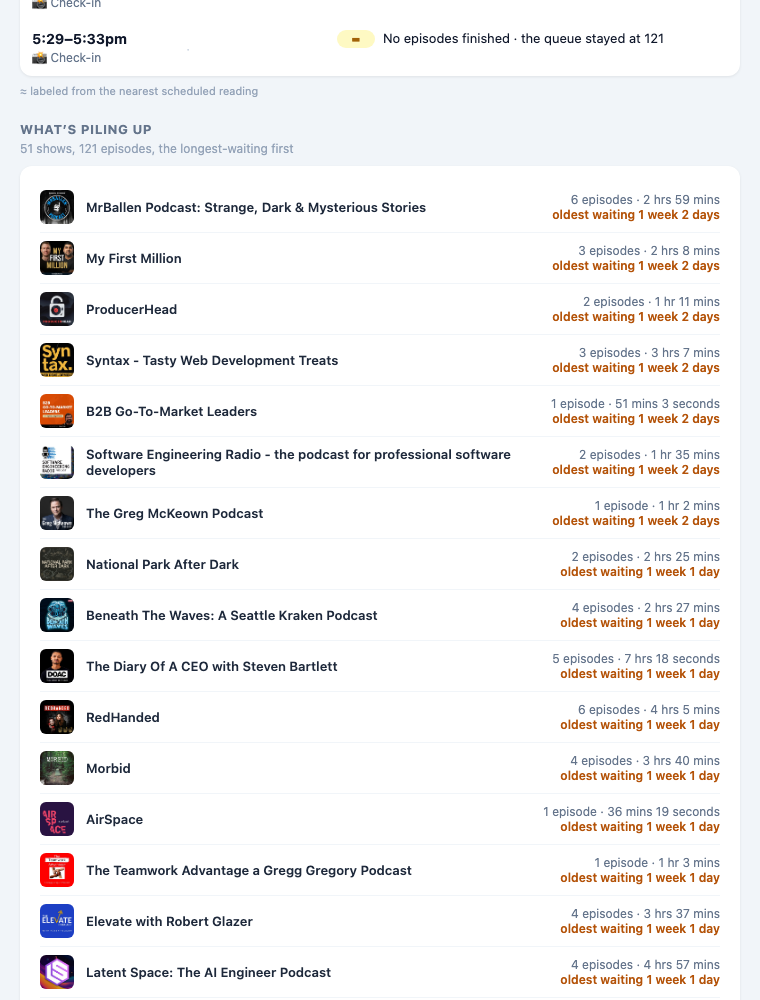
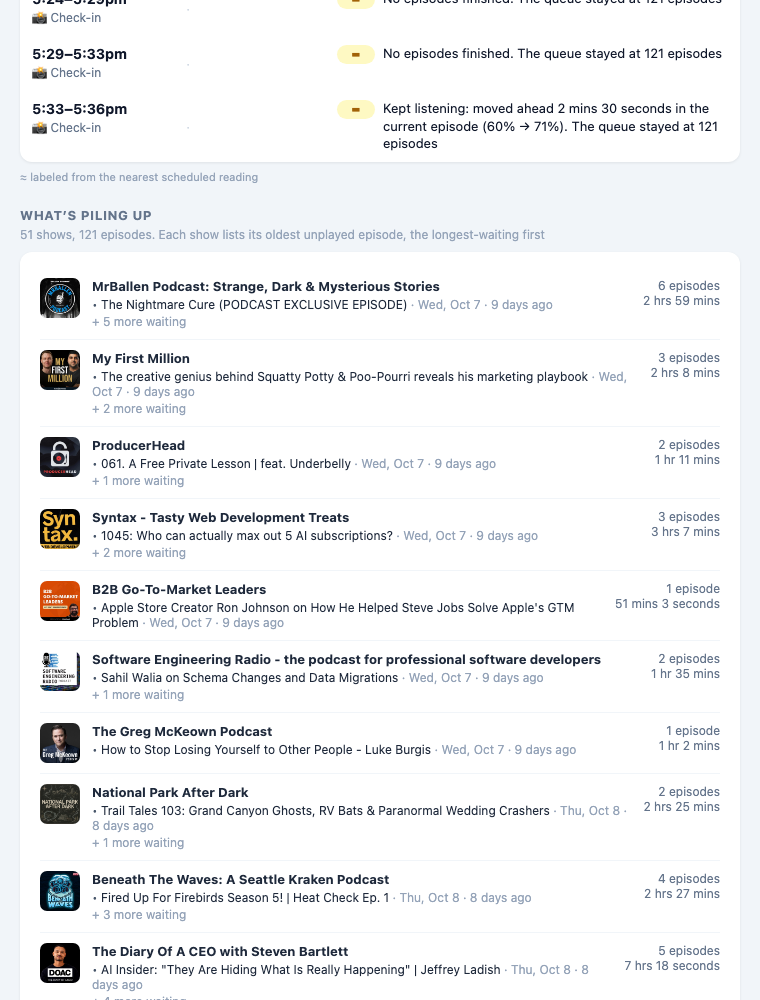
Flow web report: each show in What's piling up names its oldest episode
Under each show, a bullet with the oldest unplayed episode as a link, its
published date, and how many days ago that was, plus how many more are waiting.

diff --git a/flow.py b/flow.py
@@ -91,12 +91,16 @@ def queue_by_show(d, top=None):
     for e in d["queue"].get("episodes", []):
         name = e.get("podcast") or "Unknown"
         row = shows.setdefault(name, {"podcast": name, "count": 0, "seconds": 0, "oldest": None,
+                                      "oldest_title": None, "oldest_url": None, "oldest_duration": None,
                                       "artwork_url": None, "podcast_url": None})
         row["count"] += 1
         row["seconds"] += parse_fmt_seconds(e.get("duration_fmt"))
         pub = e.get("pubdate")
         if pub and (row["oldest"] is None or pub < row["oldest"]):
             row["oldest"] = pub
+            row["oldest_title"] = e.get("title")
+            row["oldest_url"] = e.get("episode_url")
+            row["oldest_duration"] = e.get("duration_fmt")
         row["artwork_url"] = row["artwork_url"] or e.get("artwork_url")
         row["podcast_url"] = row["podcast_url"] or e.get("podcast_url")
     ranked = sort_oldest_first(list(shows.values()))
@@ -693,10 +697,34 @@ def pile_rows(s, d=None, now=None):
     return [dict(r, age=waiting_age(r.get("oldest"), now)) for r in rows]
 
 
-def pile_line(row):
+def ago_phrase(seconds):
+    if seconds is None:
+        return ""
+    if seconds < 3600:
+        return "just now"
+    if seconds < 86400:
+        n = int(seconds // 3600)
+        return f"{n} hr{'' if n == 1 else 's'} ago"
+    n = int(seconds // 86400)
+    return f"{n} day{'' if n == 1 else 's'} ago"
+
+
+def published_label(oldest_iso, tz=None):
+    """"Tue, Oct 6" in local time."""
+    if not oldest_iso:
+        return ""
+    d = parse_utc(oldest_iso).astimezone(tz or ps.LOCAL_TZ)
+    return f"{d.strftime('%a, %b')} {d.day}"
+
+
+def pile_line(row, tz=None):
+    """One line for chat and Discord: the count, the listening time, and the
+    oldest episode with its date."""
     bits = [episodes_phrase(row["count"]), dur_n(row["seconds"])]
-    if row.get("age") is not None:
-        bits.append(f"oldest waiting {dur_n(row['age'])}")
+    if row.get("oldest_title"):
+        bits.append(f"oldest: {row['oldest_title']} ({published_label(row.get('oldest'), tz)})")
+    elif row.get("oldest"):
+        bits.append(f"oldest published {published_label(row['oldest'], tz)}")
     return " · ".join(bits)
 
 
@@ -1049,7 +1077,7 @@ def timeline_html(s, tz=None):
     )
 
 
-def piling_up_html(s, d=None):
+def piling_up_html(s, d=None, tz=None):
     rows = pile_rows(s, d)
     if not rows:
         return ""
@@ -1057,26 +1085,37 @@ def piling_up_html(s, d=None):
     for row in rows:
         art = ""
         if row.get("artwork_url"):
-            img = (f'<img src="{html.escape(row["artwork_url"])}" width="34" height="34" '
-                   'style="border-radius:6px;display:block;" alt="">')
+            img = (f'<img src="{html.escape(row["artwork_url"])}" width="40" height="40" '
+                   'style="border-radius:7px;display:block;" alt="">')
             art = (f'<a href="{html.escape(row["podcast_url"])}" target="_blank">{img}</a>'
                    if row.get("podcast_url") else img)
-        age = (f'<div style="font-size:12px;color:#b45309;font-weight:600;">oldest waiting {html.escape(dur_n(row["age"]))}</div>'
-               if row.get("age") is not None else "")
+        bullet = ""
+        when = ""
+        if row.get("oldest"):
+            when = f'{published_label(row["oldest"], tz)} · {ago_phrase(row.get("age"))}'
+        if row.get("oldest_title"):
+            bullet = (f'<div style="font-size:12px;margin-top:3px;color:#475569;">'
+                      f'• {_link(row["oldest_title"], row.get("oldest_url"), "#1e293b")}'
+                      f'<span style="color:#94a3b8;"> · {html.escape(when)}</span></div>')
+        elif when:
+            bullet = f'<div style="font-size:12px;margin-top:3px;color:#475569;">• oldest published {html.escape(when)}</div>'
+        more = (f'<div style="font-size:12px;color:#94a3b8;margin-top:2px;">+ {row["count"] - 1} more waiting</div>'
+                if row["count"] > 1 else "")
         items += (
-            '<div style="display:flex;gap:12px;align-items:center;padding:8px 0;border-bottom:1px solid #f1f5f9;">'
-            f'<div style="flex:0 0 34px;">{art}</div>'
-            f'<div style="flex:1;min-width:0;font-size:13px;font-weight:600;">'
-            f'{_link(row["podcast"], row.get("podcast_url"), "#1e293b")}</div>'
+            '<div style="display:flex;gap:12px;align-items:flex-start;padding:10px 0;border-bottom:1px solid #f1f5f9;">'
+            f'<div style="flex:0 0 40px;">{art}</div>'
+            '<div style="flex:1;min-width:0;">'
+            f'<div style="font-size:13px;font-weight:700;">{_link(row["podcast"], row.get("podcast_url"), "#1e293b")}</div>'
+            f'{bullet}{more}</div>'
             '<div style="text-align:right;font-size:12px;color:#64748b;white-space:nowrap;">'
-            f'{html.escape(episodes_phrase(row["count"]))} · {html.escape(dur_n(row["seconds"]))}{age}</div></div>'
+            f'{html.escape(episodes_phrase(row["count"]))}<br>{html.escape(dur_n(row["seconds"]))}</div></div>'
         )
     total = sum(r["count"] for r in rows)
     return (
         '<div style="font-size:13px;font-weight:700;color:#64748b;text-transform:uppercase;letter-spacing:0.6px;'
         'margin:24px 0 4px;">What&rsquo;s piling up</div>'
-        f'<div style="font-size:12px;color:#94a3b8;margin-bottom:10px;">{len(rows)} shows, {total} episodes, '
-        'the longest-waiting first</div>'
+        f'<div style="font-size:12px;color:#94a3b8;margin-bottom:10px;">{len(rows)} shows, {total} episodes. '
+        'Each show lists its oldest unplayed episode, the longest-waiting first</div>'
         + _white_card(items, 16)
     )
 
@@ -1169,7 +1208,7 @@ def render_day_html(s, tz=None, generated=None, d=None):
         nxt = rr._next_up_episode(d) if d["queue"].get("episodes") else None
     parts.append(now_playing_card_html(np, nxt))
     parts.append(timeline_html(s, tz))
-    parts.append(piling_up_html(s, d))
+    parts.append(piling_up_html(s, d, tz))
     return _page(title, "".join(parts), day_headline(s), generated, tz,
                  queue_section_html(d) if d else "")
 

diff --git a/tests/test_flow.py b/tests/test_flow.py
@@ -259,16 +259,24 @@ class StoryTests(unittest.TestCase):
 
     def test_pile_section_lists_every_show_with_age_artwork_and_links(self):
         d = {"queue": {"episodes": [
-            {"podcast": "Old Show", "duration_fmt": "1 hr", "pubdate": "2026-10-06T07:00:00",
-             "artwork_url": "https://a/o.jpg", "podcast_url": "https://p/o"},
+            {"podcast": "Old Show", "title": "Old Ep", "episode_url": "https://e/o", "duration_fmt": "1 hr",
+             "pubdate": "2026-10-06T07:00:00", "artwork_url": "https://a/o.jpg", "podcast_url": "https://p/o"},
+            {"podcast": "Old Show", "title": "Newer Ep", "duration_fmt": "10 mins", "pubdate": "2026-10-12T07:00:00"},
             {"podcast": "Single Show", "duration_fmt": "10 mins", "pubdate": "2026-10-15T07:00:00"},
         ]}}
         s = {"by_show_snapshot": None}
         page = flow.piling_up_html(s, d)
-        for needle in ("2 shows, 2 episodes", "Old Show", "Single Show", 'src="https://a/o.jpg"',
-                       'href="https://p/o"', "oldest waiting"):
+        for needle in ("2 shows, 3 episodes", "Old Show", "Single Show", 'src="https://a/o.jpg"',
+                       'href="https://p/o"', "Tue, Oct 6", ">Old Ep</a>", "+ 1 more waiting", 'href="https://e/o"'):
             self.assertIn(needle, page)
         self.assertLess(page.index("Old Show"), page.index("Single Show"))
+
+    def test_ago_and_published_labels(self):
+        self.assertEqual(flow.ago_phrase(30 * 60), "just now")
+        self.assertEqual(flow.ago_phrase(5 * 3600), "5 hrs ago")
+        self.assertEqual(flow.ago_phrase(86400 * 1.2), "1 day ago")
+        self.assertEqual(flow.ago_phrase(86400 * 9.4), "9 days ago")
+        self.assertEqual(flow.published_label("2026-10-06T07:00:00", NY), "Tue, Oct 6")
 
     def test_no_by_show_data_means_no_section(self):
         self.assertEqual(flow.piling_up_html({"by_show_snapshot": None}), "")
